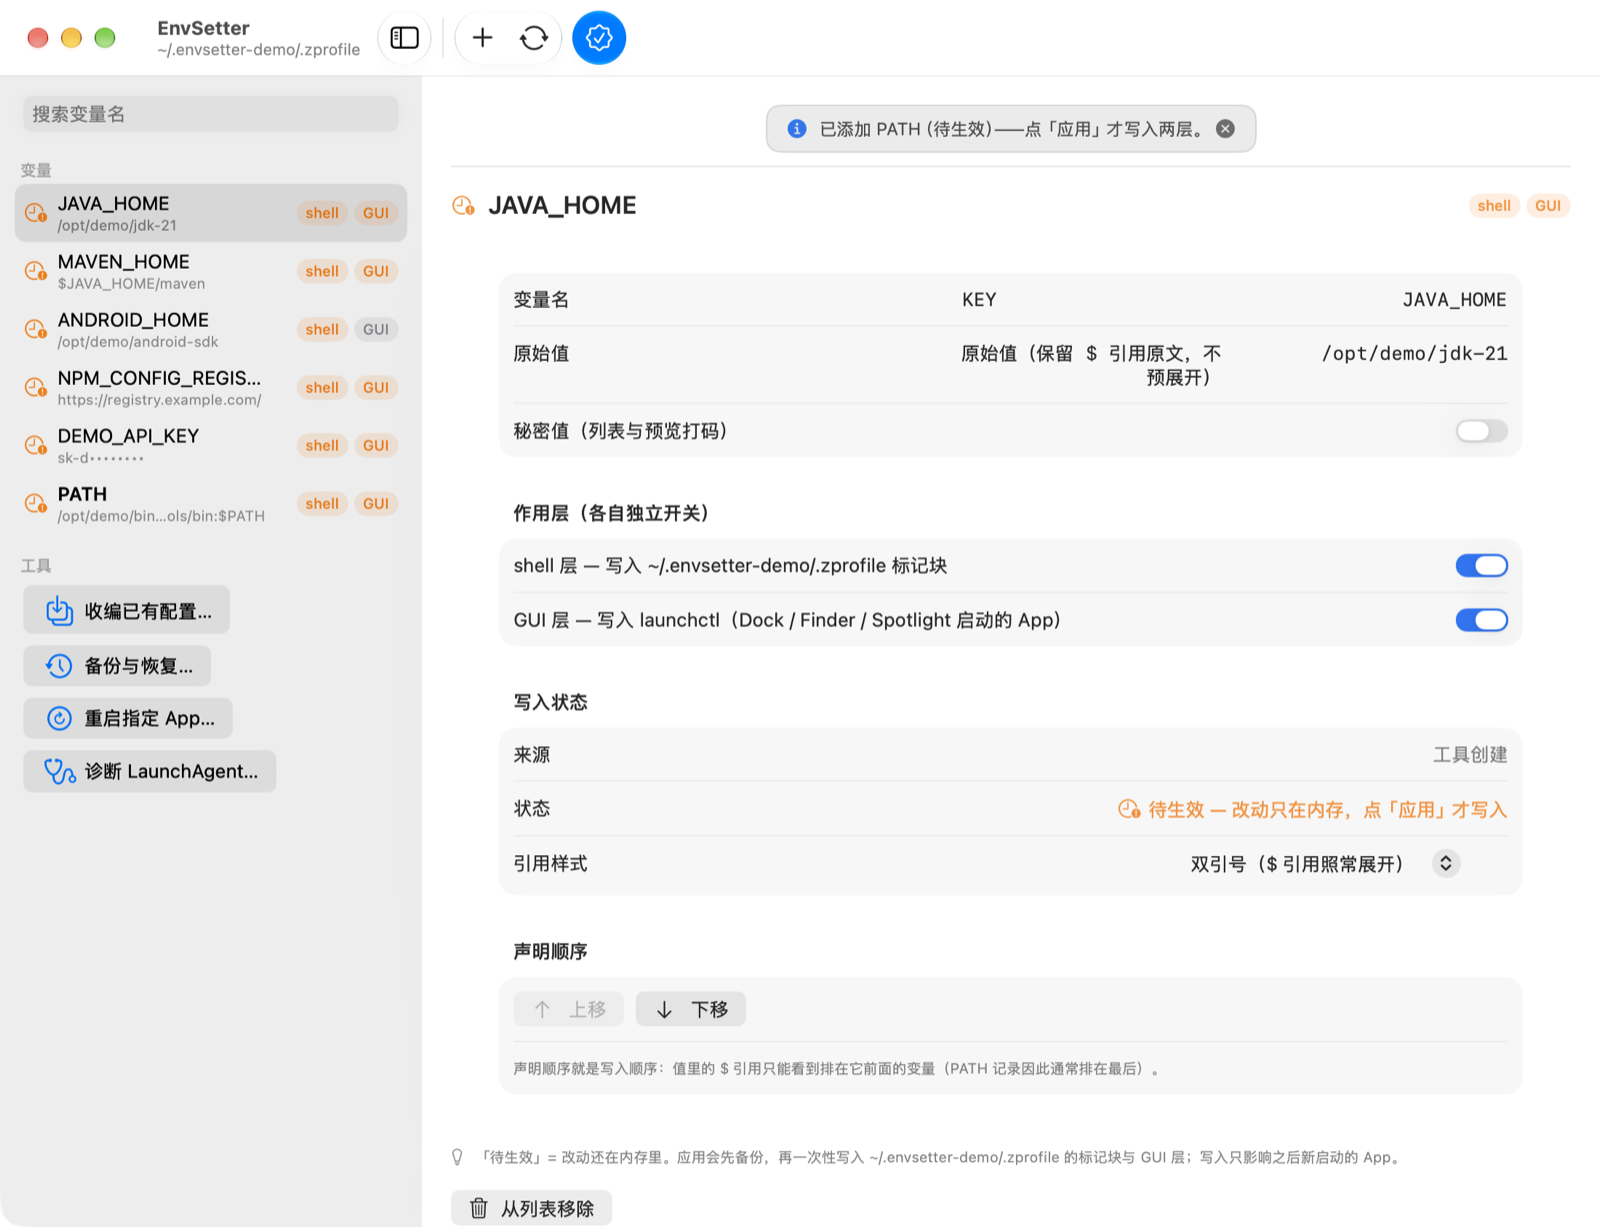
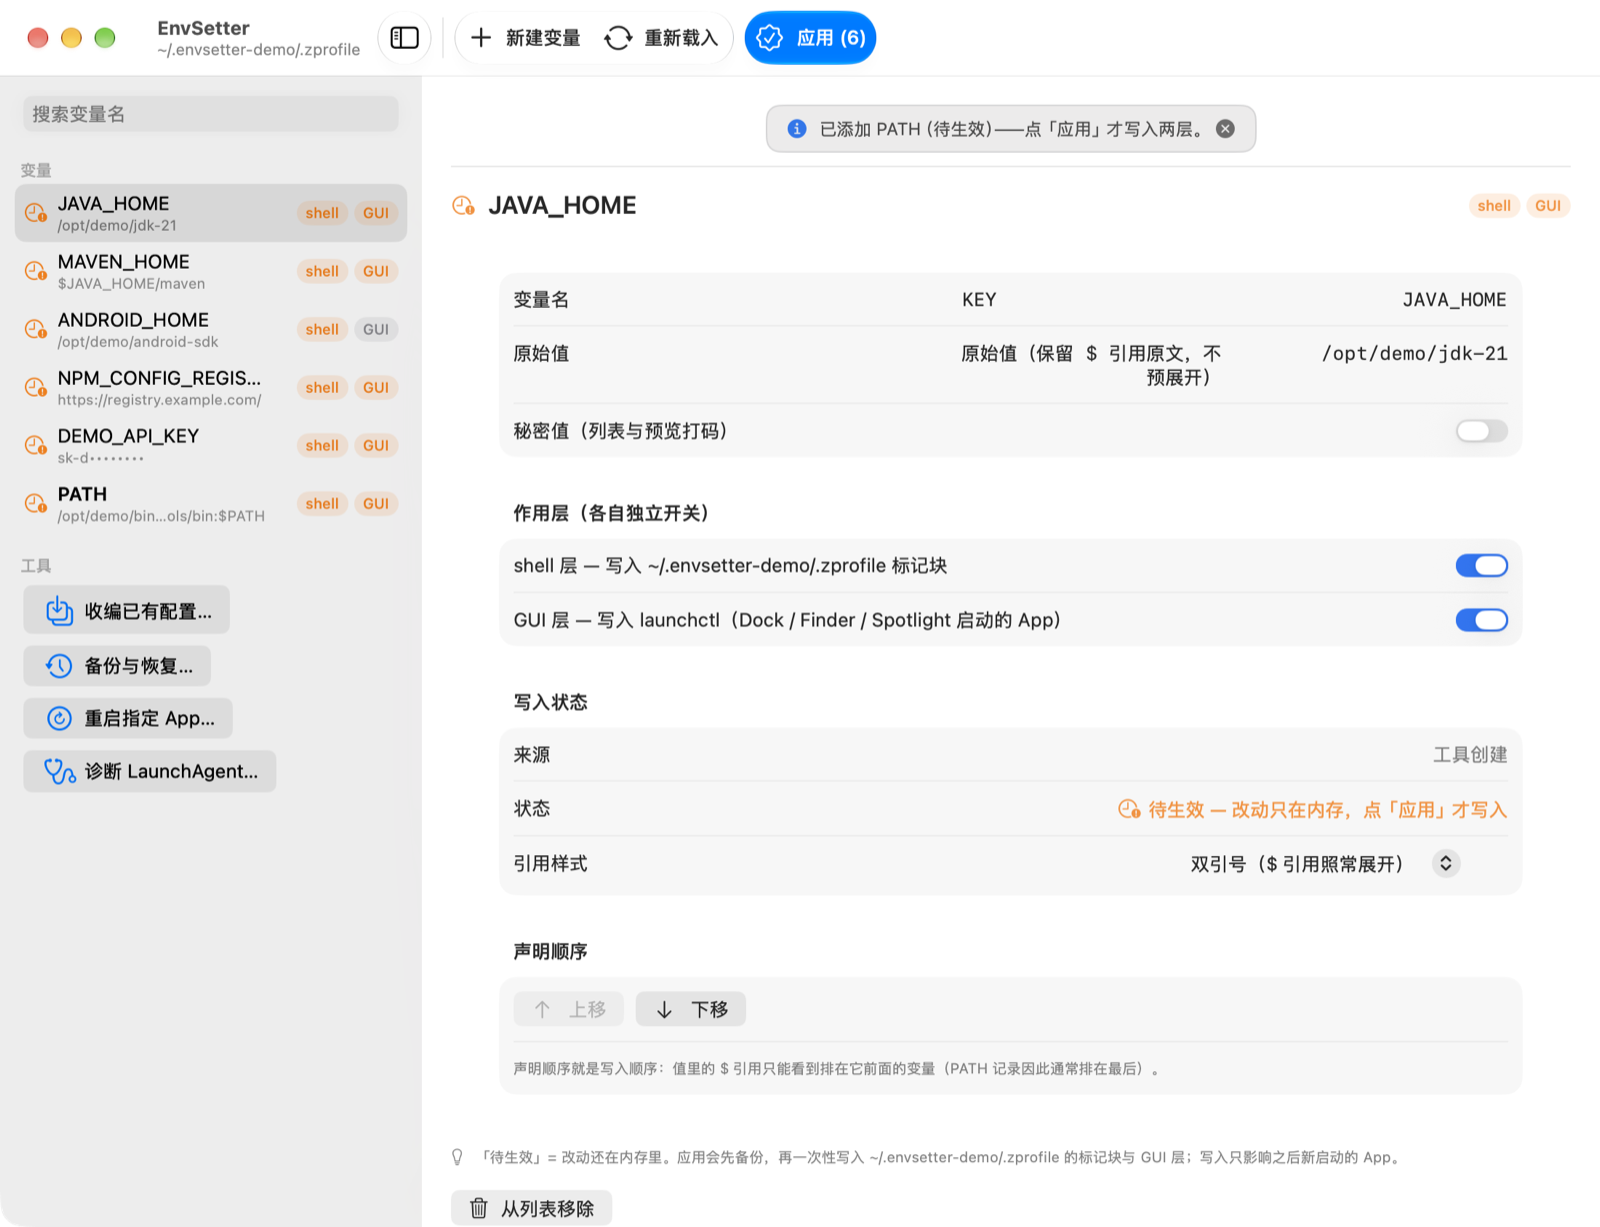
feat: 工具栏按钮带上文字，待生效的「应用 (N)」看得见
macOS 的工具栏默认只画图标，于是「应用 (N)」里的那个条数根本不显示——README 与 CONTEXT.md
都写着「点右上角的『应用 (N)』」，界面上却只有一个印章图标，对不上。

给三个按钮各挂 `.labelStyle(.titleAndIcon)`。注意 **`ToolbarContent` 不吃这个修饰符**（它是
View 修饰符，挂在 `ToolbarItemGroup` 上会编译报错 "cannot infer contextual base"），得逐个挂在
按钮上。

验过窗口**最小宽度 960** 下的样子：三个带字按钮排得下，没有被挤进溢出菜单（按 960x640 单独
渲染看过一张）。

README 的两张截图按新界面重新生成；`~/Applications` 那份也覆盖安装过了。

Changed region(s): [[0.3125, 0.0, 0.4375, 0.0619], [0.4688, 0.0, 0.5625, 0.0619]]

diff --git a/Sources/EnvSetterUI/Views/MainWindow.swift b/Sources/EnvSetterUI/Views/MainWindow.swift
@@ -37,11 +37,13 @@ public struct MainWindow: View {
                     Text(label).font(.caption).foregroundStyle(.secondary)
                 }
             }
+            // macOS 的工具栏默认只画图标；待生效的条数（「应用 (N)」）得看得见，README 也这么写。
             Button {
                 model.sheet = .newRecord
             } label: {
                 Label("新建变量", systemImage: "plus")
             }
+            .labelStyle(.titleAndIcon)
             .disabled(model.isBusy)
             .help("新建一条变量（⌘N）")
 
@@ -50,6 +52,7 @@ public struct MainWindow: View {
             } label: {
                 Label("重新载入", systemImage: "arrow.triangle.2.circlepath")
             }
+            .labelStyle(.titleAndIcon)
             .disabled(model.isBusy)
             .help("以 \(model.zprofileLabel) 为准重新载入（⌘R）")
 
@@ -58,6 +61,7 @@ public struct MainWindow: View {
             } label: {
                 Label(model.pendingCount > 0 ? "应用 (\(model.pendingCount))" : "应用", systemImage: "checkmark.seal")
             }
+            .labelStyle(.titleAndIcon)
             .buttonStyle(.borderedProminent)
             .disabled(!model.canApply)
             .help(applyHelp)
